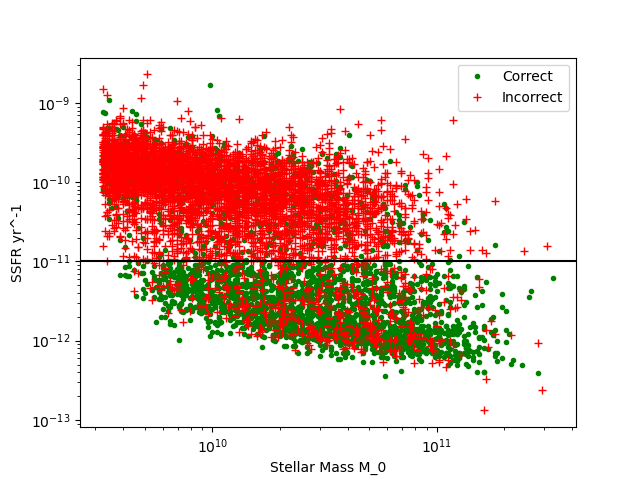
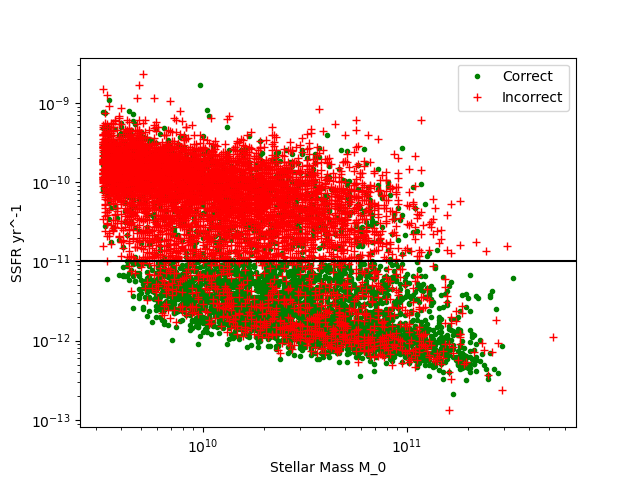
Add files via upload

diff --git a/SDSS_image_classifier.py b/SDSS_image_classifier.py
@@ -20,7 +20,7 @@ from numpy import savetxt
 
 #Important paths
 table_path = 'SDSS_image_table.fits'
-images_path = '/c4/smcgee/project_data/SDSS_images_for_CNN/sdss_images'
+images_path = '/c4/wfh842/sdss_images'
 model_path =  'CNNmodelV1.10' 
 write_path = '/home/wfh842'  
 
@@ -46,7 +46,7 @@ for i in range(length):
   ID=int(file_name_array[i][:-19])
   print(str(i+1)+'/'+str(length))
   for j in range(len(table)):
-    if round(table[j][0])==ID:
+    if round(table[j][1])==ID:
       SFR=10**table[j][15]
       M=10**table[j][14]              
       sSFR=SFR/M
